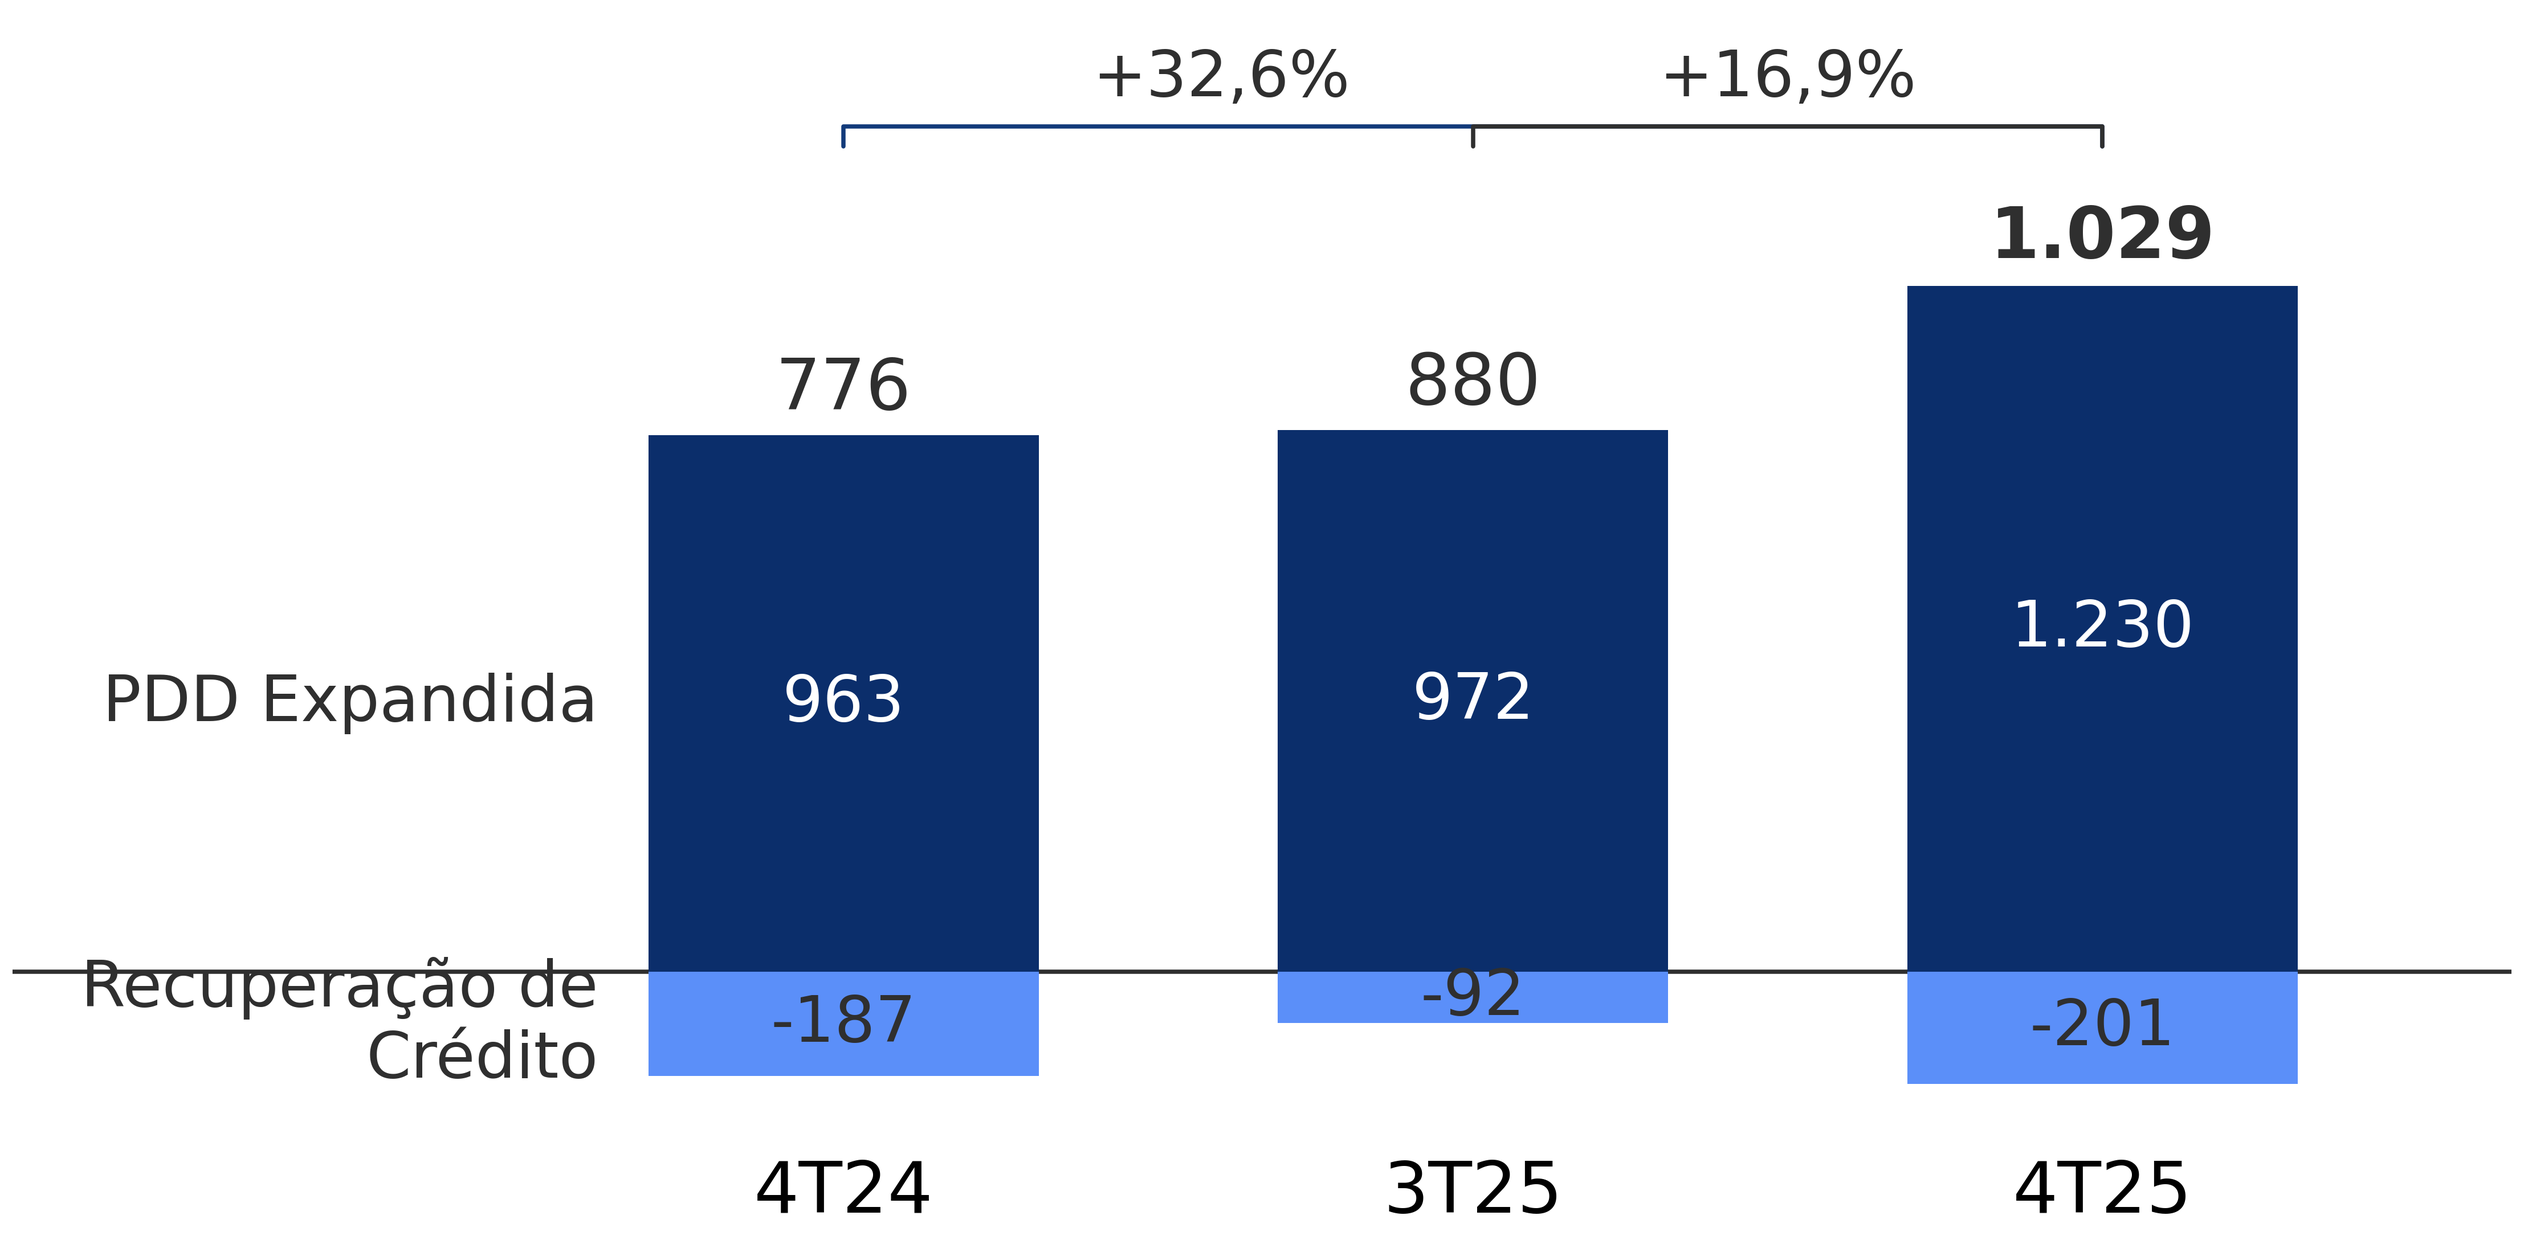
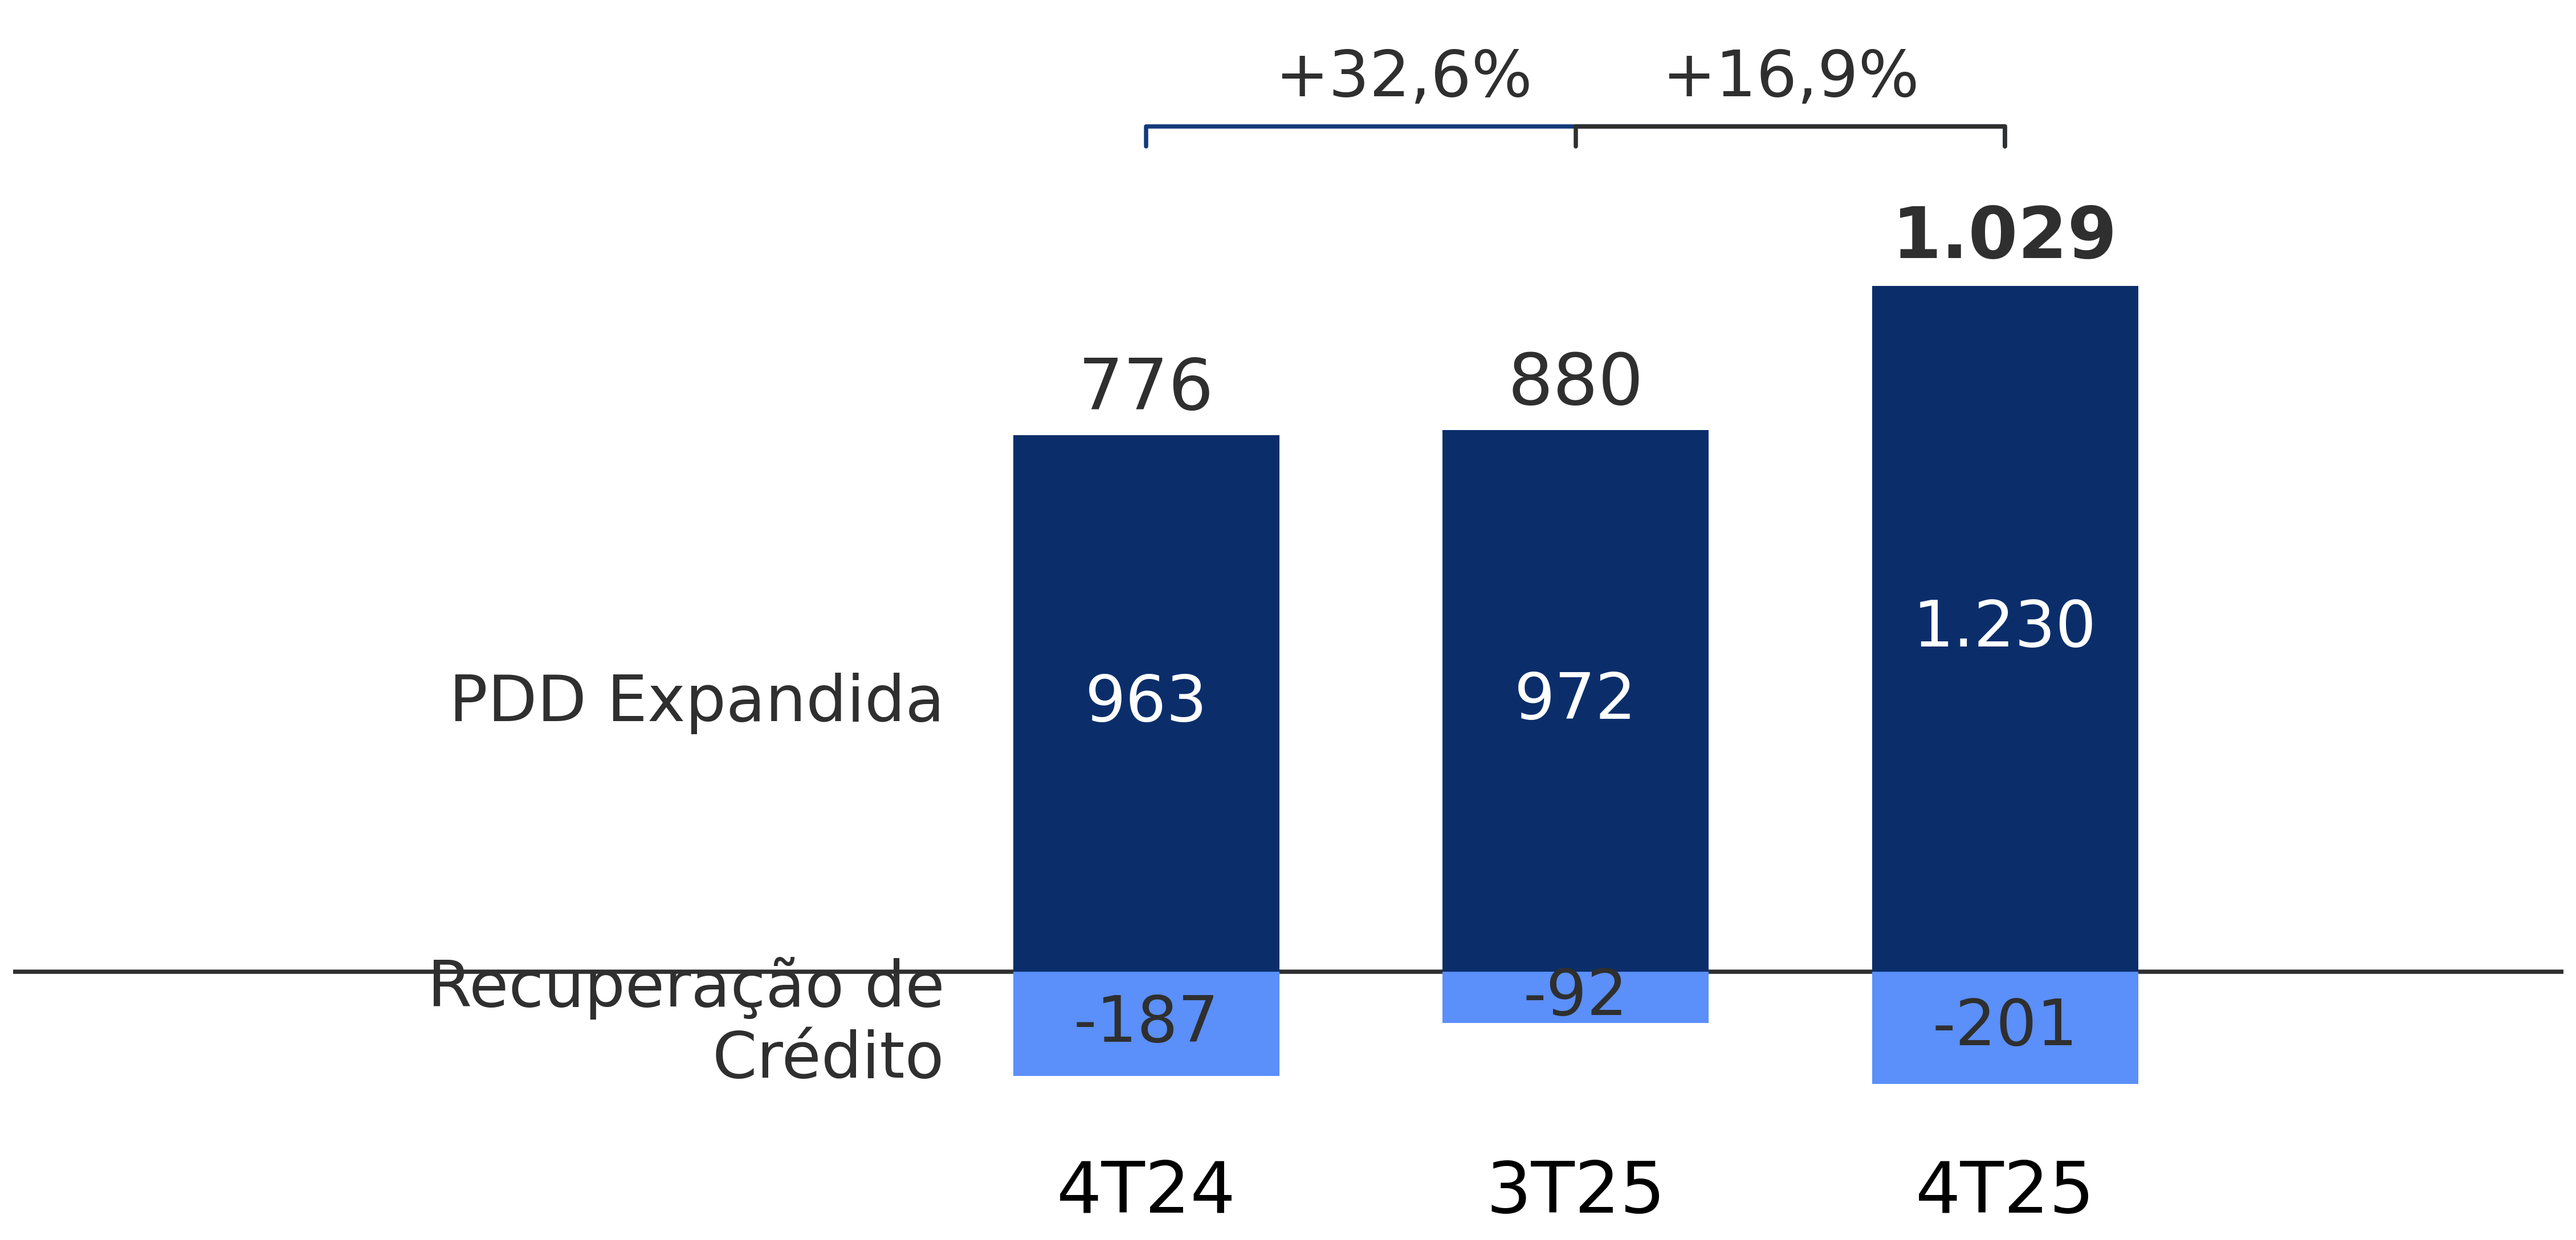
last adjustmentew on slide9

diff --git a/tests/test_slide9_charts.py b/tests/test_slide9_charts.py
@@ -6,6 +6,7 @@ from unittest.mock import patch
 import matplotlib.pyplot as plt
 import numpy as np
 from matplotlib.patches import FancyBboxPatch
+from matplotlib.patches import Rectangle
 from openpyxl import Workbook
 
 from src.utils.slides.slide9_charts import (
@@ -20,7 +21,9 @@ from src.utils.slides.slide9_charts import (
     SLIDE9_LINE_9M_LABEL_X_OFFSETS_PTS,
     SLIDE9_LINE_LABEL_OFFSET_PTS,
     SLIDE9_LINE_TRI_LABEL_FONTSIZE,
+    SLIDE9_STACKED_BAR_WIDTH,
     SLIDE9_STACKED_FONT_SCALE,
+    SLIDE9_STACKED_GROUP_SPACING,
     SLIDE9_STACKED_LEGEND_X_OFFSET,
     SLIDE9_STACKED_XTICK_PAD,
     _plot_indice_cobertura_percent,
@@ -122,6 +125,8 @@ class TestSlide9Charts(unittest.TestCase):
                 "font_scale": SLIDE9_STACKED_FONT_SCALE,
                 "legend_x_offset": SLIDE9_STACKED_LEGEND_X_OFFSET,
                 "x_tick_pad": SLIDE9_STACKED_XTICK_PAD,
+                "bar_width": SLIDE9_STACKED_BAR_WIDTH,
+                "group_spacing": SLIDE9_STACKED_GROUP_SPACING,
             },
         )
 
@@ -139,6 +144,8 @@ class TestSlide9Charts(unittest.TestCase):
                 "font_scale": SLIDE9_STACKED_FONT_SCALE,
                 "legend_x_offset": SLIDE9_STACKED_LEGEND_X_OFFSET,
                 "x_tick_pad": SLIDE9_STACKED_XTICK_PAD,
+                "bar_width": SLIDE9_STACKED_BAR_WIDTH,
+                "group_spacing": SLIDE9_STACKED_GROUP_SPACING,
                 "delta_pairs": SLIDE9_9M_DELTA_PAIRS,
                 "delta_bracket_colors": SLIDE9_9M_DELTA_BRACKET_COLORS,
                 "delta_label_x_fractions": SLIDE9_9M_DELTA_LABEL_X_FRACTIONS,
@@ -289,6 +296,47 @@ class TestSlide9Charts(unittest.TestCase):
             if len(line.get_xdata()) == 2 and line.get_color() in {"#0B2E6B", "#5B8FF9"}
         ]
         self.assertEqual(connector_lines, [])
+
+        plt.close(fig)
+
+    def test_plot_stacked_bars_with_total_supports_custom_bar_width_and_spacing(self):
+        fig, ax = plt.subplots()
+
+        with tempfile.TemporaryDirectory() as td:
+            output_path = Path(td) / "chart.png"
+            with patch("matplotlib.pyplot.subplots", return_value=(fig, ax)):
+                with patch("src.utils.slides.slide9_charts.close_figure"):
+                    _plot_stacked_bars_with_total(
+                        xlabels=["4T24", "1T25"],
+                        series_names=["PDD Expandida", "Recuperação de Crédito"],
+                        values=np.asarray(
+                            [
+                                [40.0, -4.0],
+                                [45.0, -5.0],
+                            ],
+                            dtype=float,
+                        ),
+                        output_path=output_path,
+                        colors=["#0B2E6B", "#5B8FF9"],
+                        bar_width=SLIDE9_STACKED_BAR_WIDTH,
+                        group_spacing=SLIDE9_STACKED_GROUP_SPACING,
+                    )
+
+        bar_patches = [
+            patch
+            for patch in ax.patches
+            if isinstance(patch, Rectangle) and patch.get_width() > 0 and patch.get_height() != 0
+        ]
+        self.assertEqual(len(bar_patches), 4)
+        self.assertAlmostEqual(bar_patches[0].get_width(), SLIDE9_STACKED_BAR_WIDTH, places=2)
+
+        bar_centers = sorted(
+            {
+                round(float(patch.get_x() + patch.get_width() / 2.0), 2)
+                for patch in bar_patches
+            }
+        )
+        self.assertEqual(bar_centers, [0.0, 0.5])
 
         plt.close(fig)
 

diff --git a/src/utils/slides/slide9_charts.py b/src/utils/slides/slide9_charts.py
@@ -12,6 +12,8 @@ SLIDE9_STACKED_FONT_SCALE = 2.0
 SLIDE9_COVERAGE_FONT_SCALE = 2.0
 SLIDE9_STACKED_LEGEND_X_OFFSET = 1.32
 SLIDE9_STACKED_XTICK_PAD = 4.0
+SLIDE9_STACKED_BAR_WIDTH = 0.31
+SLIDE9_STACKED_GROUP_SPACING = 0.50
 SLIDE9_COVERAGE_XTICK_PAD = 4.0
 SLIDE9_LINE_LABEL_FONT_SCALE = 2.0
 SLIDE9_LINE_TRI_LABEL_FONTSIZE = 56.0
@@ -89,6 +91,8 @@ def _plot_stacked_bars_with_total(
     font_scale: float = 1.0,
     legend_x_offset: float = 1.28,
     x_tick_pad: float = 8.0,
+    bar_width: float = 0.62,
+    group_spacing: float = 1.0,
     delta_pairs: tuple[tuple[int, int], ...] = (),
     delta_bracket_colors: tuple[str, ...] = (),
     delta_label_x_fractions: tuple[float, ...] = (),
@@ -107,8 +111,8 @@ def _plot_stacked_bars_with_total(
     fig.patch.set_alpha(0)
     ax.set_facecolor("none")
 
-    x = np.arange(n, dtype=float)
-    width = 0.62
+    x = np.arange(n, dtype=float) * float(group_spacing)
+    width = float(bar_width)
 
     # Stacking com suporte a segmentos positivos e negativos.
     pos_bottom = np.zeros(n, dtype=float)
@@ -433,6 +437,8 @@ def generate_slide9_charts(*, xlsx_path: Path, output_dir: Path) -> list[Path]:
         font_scale=SLIDE9_STACKED_FONT_SCALE,
         legend_x_offset=SLIDE9_STACKED_LEGEND_X_OFFSET,
         x_tick_pad=SLIDE9_STACKED_XTICK_PAD,
+        bar_width=SLIDE9_STACKED_BAR_WIDTH,
+        group_spacing=SLIDE9_STACKED_GROUP_SPACING,
     )
     generated.append(out19)
 
@@ -451,6 +457,8 @@ def generate_slide9_charts(*, xlsx_path: Path, output_dir: Path) -> list[Path]:
         font_scale=SLIDE9_STACKED_FONT_SCALE,
         legend_x_offset=SLIDE9_STACKED_LEGEND_X_OFFSET,
         x_tick_pad=SLIDE9_STACKED_XTICK_PAD,
+        bar_width=SLIDE9_STACKED_BAR_WIDTH,
+        group_spacing=SLIDE9_STACKED_GROUP_SPACING,
         delta_pairs=SLIDE9_9M_DELTA_PAIRS,
         delta_bracket_colors=SLIDE9_9M_DELTA_BRACKET_COLORS,
         delta_label_x_fractions=SLIDE9_9M_DELTA_LABEL_X_FRACTIONS,
